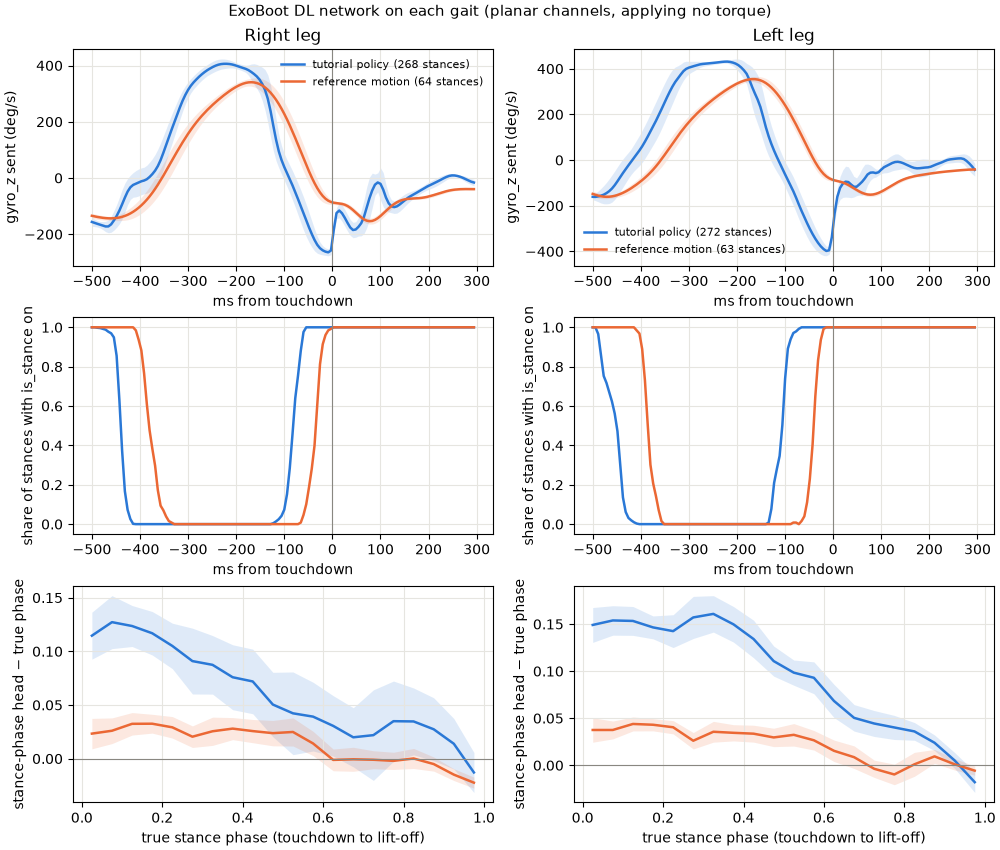
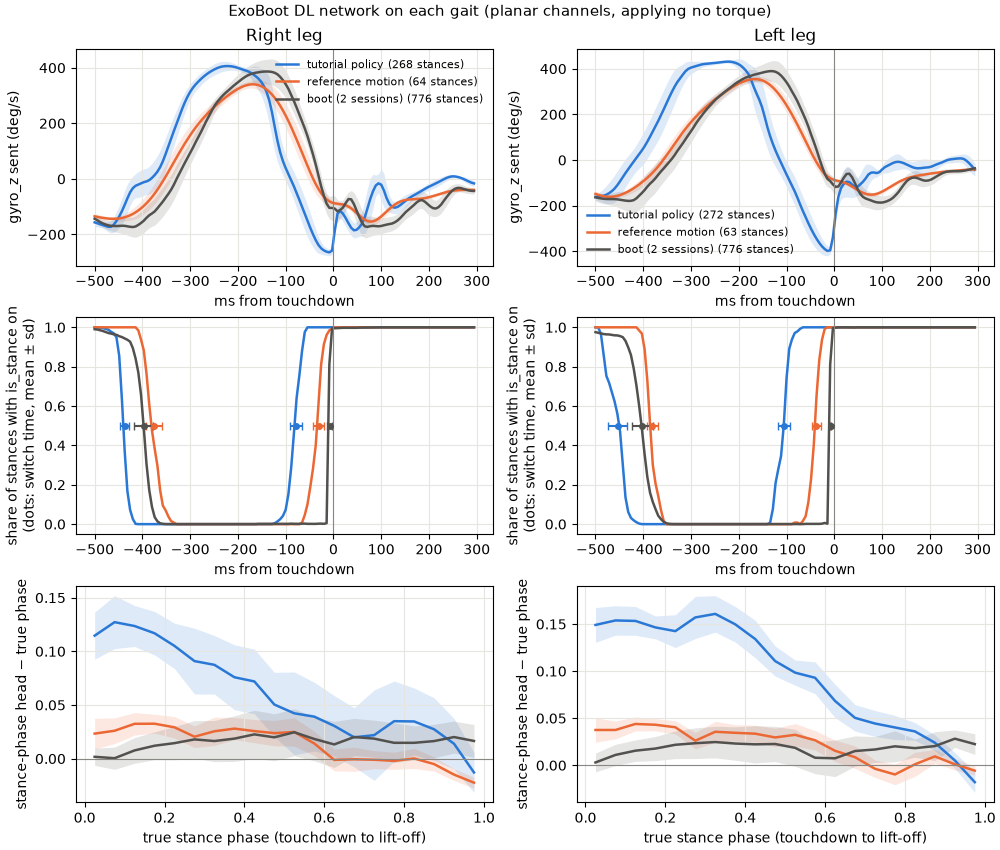
DL figure: overlay the boot's two sessions, and mark when is_stance switches (mean ± sd)

diff --git a/rl_train/train/train_configs/exoboot_dl/README.md b/rl_train/train/train_configs/exoboot_dl/README.md
@@ -212,7 +212,10 @@ is about what the logs predict for the sim's two known gaps: the planar model's 
 23–29 ms early) and a kinematic replay's missing heel-strike impact (6–11 ms). It still flickers (22–36 is_stance runs
 under 200 ms in 75 s), as the replay's smooth motion-capture gyro_z lacks the fast content the network leans on.
 
-![The DL network on the tutorial policy and on the reference motion](figures/dl_policy_vs_reference.png)
+On the tutorial policy, the reference motion and the boot's two DL sessions (logged inputs, the boot's anchors at
+force-plate contact), mean ± sd; the dots in the middle row are when is_stance switches, mean ± sd:
+
+![The DL network on the tutorial policy, the reference motion and the boot](figures/dl_policy_vs_reference.png)
 
 Assisting, the delivered torque has the boot's peak (25 N·m) and, on the right, its shape on the true gait cycle (r
 0.98 against the boot's stance command; peak at 0.565–0.575 of the stride against the boot's 0.585); on the left it
